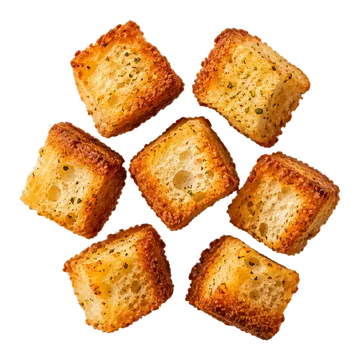
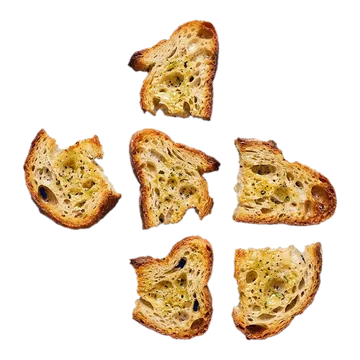
Pilene står stille igen; nye billeder af ristede løg, mango og croutoner
Claude-Session: https://claude.ai/code/session_01WZ3rcJ382stsMFGzGBwaQH

diff --git a/app.js b/app.js
@@ -231,7 +231,15 @@ function lavPil(kat, retning) {
   knap.type = "button";
   knap.className = "pil " + (retning < 0 ? "tilbage" : "frem");
   knap.innerHTML = retning < 0 ? PIL_TILBAGE : PIL_FREM;
-  knap.addEventListener("click", () => skiftEn(kat, retning));
+  knap.addEventListener("click", () => {
+    // Hold pilen samme sted på skærmen: siden må ikke blive kortere (så browseren ruller), og flytter
+    // noget over pilen sig, ruller vi tilsvarende tilbage. Så kan man klikke flere gange samme sted.
+    const foer = knap.getBoundingClientRect().top;
+    document.body.style.minHeight = document.documentElement.scrollHeight + "px";
+    skiftEn(kat, retning);
+    const efter = knap.getBoundingClientRect().top;
+    if (Math.abs(efter - foer) > 0.5) window.scrollBy(0, efter - foer);
+  });
   return knap;
 }
 

diff --git a/style.css b/style.css
@@ -71,7 +71,7 @@ body {
   align-items: start;
 }
 @media (min-width: 760px) {
-  .hoved { grid-template-columns: 1.1fr 1fr; column-gap: 3rem; align-items: center; }
+  .hoved { grid-template-columns: 1.1fr 1fr; column-gap: 3rem; align-items: start; }
 }
 
 .skaal-kort {
